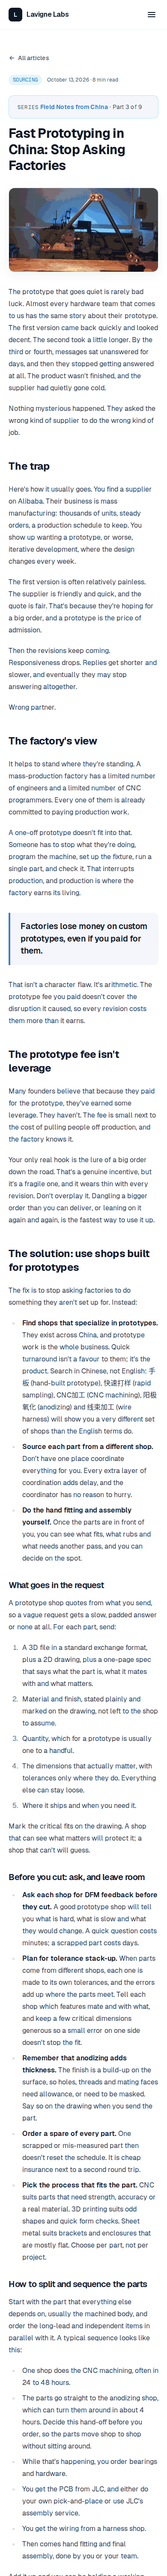
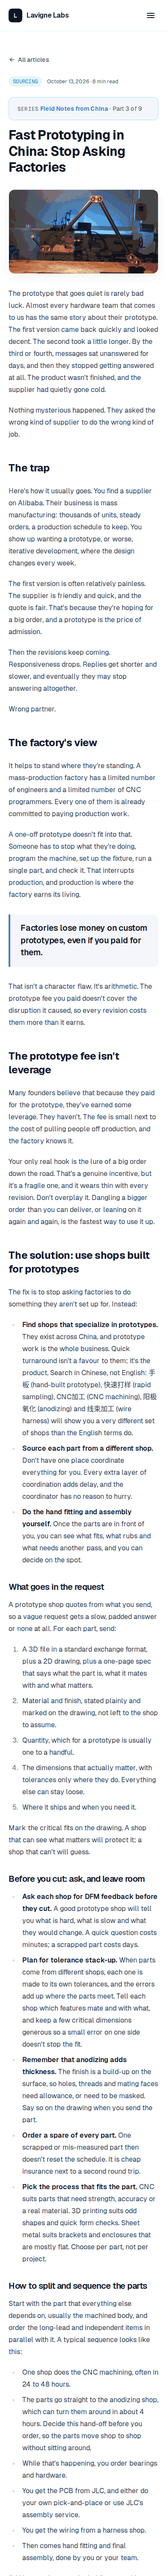
Design polish: shared card tokens, focus rings, tap targets, footer contrast, after shots

Changed region(s): [[0.0308, 0.0, 0.9538, 1.0], [0.0615, 0.5922, 0.0923, 0.6545]]

diff --git a/web/components/Footer.tsx b/web/components/Footer.tsx
@@ -22,13 +22,13 @@ export function Footer() {
 
           {Object.entries(footerLinks).map(([heading, items]) => (
             <div key={heading}>
-              <h3 className="font-mono text-xs uppercase tracking-widest text-white/50">
+              <h3 className="font-mono text-xs uppercase tracking-widest text-white/65">
                 {heading}
               </h3>
-              <ul className="mt-4 space-y-3 text-sm">
+              <ul className="mt-4 space-y-1 text-sm">
                 {items.map((item) => (
                   <li key={item.href}>
-                    <Link href={item.href} className="text-white/75 transition hover:text-white">
+                    <Link href={item.href} className="tap text-white/75 transition hover:text-white">
                       {item.label}
                     </Link>
                   </li>
@@ -38,12 +38,12 @@ export function Footer() {
           ))}
 
           <div>
-            <h3 className="font-mono text-xs uppercase tracking-widest text-white/50">
+            <h3 className="font-mono text-xs uppercase tracking-widest text-white/65">
               Get in touch
             </h3>
-            <ul className="mt-4 space-y-3 text-sm text-white/75">
+            <ul className="mt-4 space-y-2 text-sm text-white/75">
               <li>
-                <a href={mailtoHref} className="transition hover:text-white">
+                <a href={mailtoHref} className="tap transition hover:text-white">
                   {site.email}
                 </a>
               </li>
@@ -53,7 +53,7 @@ export function Footer() {
           </div>
         </div>
 
-        <div className="mt-12 border-t border-white/10 pt-6 text-xs text-white/45">
+        <div className="mt-12 border-t border-white/10 pt-6 text-xs text-white/60">
           © {new Date().getFullYear()} {site.name}. All rights reserved.
         </div>
       </Container>

diff --git a/web/app/articles/page.tsx b/web/app/articles/page.tsx
@@ -35,7 +35,7 @@ export default function ArticlesPage() {
             <Link
               key={s.slug}
               href={`/articles/series/${s.slug}`}
-              className="group mb-8 block rounded-2xl border border-accent/30 bg-mist p-7 transition hover:border-accent"
+              className="group mb-8 block rounded-2xl border border-accent/30 bg-mist p-7 transition hover:border-accent hover:shadow-card"
             >
               <span className="font-mono text-xs uppercase tracking-widest text-accent">Series</span>
               <h2 className="mt-2 text-xl font-semibold tracking-tight group-hover:text-accent">{s.title}</h2>
@@ -50,7 +50,7 @@ export default function ArticlesPage() {
               <Link
                 key={a.slug}
                 href={`/articles/${a.slug}`}
-                className="group flex flex-col overflow-hidden rounded-2xl border border-line bg-white shadow-card transition hover:border-accent/40"
+                className="card group"
               >
                 {a.hero && (
                   // eslint-disable-next-line @next/next/no-img-element
@@ -60,10 +60,10 @@ export default function ArticlesPage() {
                     width={1600}
                     height={900}
                     loading="lazy"
-                    className="aspect-[16/9] w-full border-b border-line object-cover"
+                    className="card-media"
                   />
                 )}
-                <div className="flex flex-1 flex-col p-7">
+                <div className="card-body">
                 <div className="flex items-center gap-3 text-xs">
                   <span className="rounded-full bg-accent/10 px-2.5 py-1 font-mono uppercase tracking-wide text-accent">
                     {a.tag}

diff --git a/web/components/ProjectCard.tsx b/web/components/ProjectCard.tsx
@@ -10,9 +10,9 @@ export function ProjectCard({
   priority?: boolean;
 }) {
   return (
-    <article className="group overflow-hidden rounded-2xl border border-line bg-white shadow-card">
-      <Link href={`/work/${project.slug}/`} className="block" aria-label={project.title}>
-      <div className="relative aspect-[4/3] overflow-hidden bg-mist">
+    <article className="card group">
+      <Link href={`/work/${project.slug}/`} className="flex flex-1 flex-col" aria-label={project.title}>
+      <div className="overflow-hidden">
         <Image
           src={project.image}
           alt={project.title}
@@ -20,17 +20,17 @@ export function ProjectCard({
           height={600}
           priority={priority}
           sizes="(max-width: 640px) 100vw, (max-width: 1024px) 50vw, 33vw"
-          className="h-full w-full object-cover transition duration-500 group-hover:scale-[1.04]"
+          className="card-media transition duration-500 group-hover:scale-[1.03]"
         />
       </div>
-      <div className="p-6">
-        <h3 className="text-lg font-semibold tracking-tight">{project.title}</h3>
+      <div className="card-body">
+        <h3 className="text-lg font-semibold tracking-tight group-hover:text-accent">{project.title}</h3>
         <p className="mt-2 text-sm leading-relaxed text-slate">{project.blurb}</p>
         <div className="mt-4 flex flex-wrap gap-2">
           {project.tags.map((tag) => (
             <span
               key={tag}
-              className="rounded-full bg-mist px-2.5 py-1 font-mono text-[11px] uppercase tracking-wide text-slate"
+              className="rounded-full bg-mist px-2.5 py-1 font-mono text-xs uppercase tracking-wide text-slate"
             >
               {tag}
             </span>

diff --git a/web/components/Header.tsx b/web/components/Header.tsx
@@ -22,12 +22,12 @@ export function Header() {
           <span className="text-ink">{site.name}</span>
         </Link>
 
-        <nav className="hidden items-center gap-8 md:flex">
+        <nav className="hidden items-center gap-6 md:flex">
           {nav.map((item) => (
             <Link
               key={item.href}
               href={item.href}
-              className="text-sm font-medium text-slate transition hover:text-ink"
+              className="tap text-sm font-medium text-slate transition hover:text-ink"
             >
               {item.label}
             </Link>
@@ -39,7 +39,7 @@ export function Header() {
 
         <button
           type="button"
-          className="md:hidden -mr-1 inline-flex h-10 w-10 items-center justify-center rounded-lg text-ink"
+          className="md:hidden -mr-1 inline-flex h-11 w-11 items-center justify-center rounded-lg text-ink"
           aria-label="Toggle menu"
           aria-expanded={open}
           onClick={() => setOpen((v) => !v)}
@@ -61,7 +61,7 @@ export function Header() {
               <Link
                 key={item.href}
                 href={item.href}
-                className="rounded-lg px-2 py-3 text-base font-medium text-ink hover:bg-mist"
+                className="rounded-lg px-3 py-3.5 text-base font-medium text-ink hover:bg-mist"
                 onClick={() => setOpen(false)}
               >
                 {item.label}

diff --git a/web/app/globals.css b/web/app/globals.css
@@ -193,3 +193,54 @@ body {
 .article-body blockquote.callout-tip > p:first-child {
   color: var(--color-accent-600);
 }
+
+/* Shared design tokens: focus, cards, tap targets */
+:focus-visible {
+  outline: 2px solid var(--color-accent);
+  outline-offset: 2px;
+  border-radius: 0.25rem;
+}
+.card {
+  display: flex;
+  flex-direction: column;
+  overflow: hidden;
+  border: 1px solid var(--color-line);
+  border-radius: 1rem;
+  background: #fff;
+  box-shadow: var(--shadow-card);
+  transition: border-color 0.2s, box-shadow 0.2s, transform 0.2s;
+}
+.card:hover,
+.card:focus-within {
+  border-color: rgba(37, 99, 235, 0.45);
+  box-shadow: 0 2px 4px rgba(11, 18, 32, 0.06), 0 14px 32px rgba(11, 18, 32, 0.1);
+}
+@media (prefers-reduced-motion: no-preference) {
+  .card:hover {
+    transform: translateY(-2px);
+  }
+}
+.card-media {
+  display: block;
+  width: 100%;
+  aspect-ratio: 3 / 2;
+  object-fit: cover;
+  background: var(--color-mist);
+  border-bottom: 1px solid var(--color-line);
+}
+.card-body {
+  display: flex;
+  flex: 1;
+  flex-direction: column;
+  padding: 1.5rem;
+}
+.tap {
+  display: inline-flex;
+  align-items: center;
+  min-height: 2.75rem;
+}
+@media (min-width: 48rem) {
+  .tap {
+    min-height: 2.25rem;
+  }
+}

diff --git a/web/components/ui.tsx b/web/components/ui.tsx
@@ -36,7 +36,7 @@ export function Button({
 }: ButtonProps) {
   return (
     <Link
-      className={`inline-flex items-center justify-center gap-2 rounded-full px-6 py-3 text-sm font-semibold transition focus-visible:outline-none focus-visible:ring-2 focus-visible:ring-offset-2 ${variants[variant]} ${className}`}
+      className={`inline-flex items-center justify-center gap-2 rounded-full min-h-11 px-6 py-3 text-sm font-semibold transition focus-visible:outline-none focus-visible:ring-2 focus-visible:ring-offset-2 ${variants[variant]} ${className}`}
       {...props}
     >
       {children}

diff --git a/web/components/HowWeWork.tsx b/web/components/HowWeWork.tsx
@@ -21,7 +21,7 @@ export function HowWeWork() {
             >
               <div className="flex items-center gap-3">
                 <h3 className="text-xl font-semibold tracking-tight">{model.name}</h3>
-                <span className="rounded-full bg-accent/10 px-2.5 py-1 font-mono text-[11px] uppercase tracking-wide text-accent">
+                <span className="rounded-full bg-accent/10 px-2.5 py-1 font-mono text-xs uppercase tracking-wide text-accent">
                   {model.tag}
                 </span>
               </div>

diff --git a/web/app/play/page.tsx b/web/app/play/page.tsx
@@ -65,7 +65,7 @@ export default function PlayPage() {
                   />
                 </div>
                 <div className="p-7">
-                  <span className="font-mono text-[11px] uppercase tracking-wide text-accent">
+                  <span className="font-mono text-xs uppercase tracking-wide text-accent">
                     {game.tag}
                   </span>
                   <h2 className="mt-2 text-xl font-semibold tracking-tight group-hover:text-accent">

diff --git a/web/app/work/[slug]/page.tsx b/web/app/work/[slug]/page.tsx
@@ -96,7 +96,7 @@ export default async function ProjectPage({
               {project.tags.map((tag) => (
                 <span
                   key={tag}
-                  className="rounded-full bg-mist px-2.5 py-1 font-mono text-[11px] uppercase tracking-wide text-slate"
+                  className="rounded-full bg-mist px-2.5 py-1 font-mono text-xs uppercase tracking-wide text-slate"
                 >
                   {tag}
                 </span>

diff --git a/web/app/tools/page.tsx b/web/app/tools/page.tsx
@@ -14,7 +14,7 @@ function ToolCard({ tool }: { tool: Tool }) {
   const body = (
     <>
       <div>
-        <span className="font-mono text-[11px] uppercase tracking-wide text-accent">
+        <span className="font-mono text-xs uppercase tracking-wide text-accent">
           {tool.kind}
         </span>
         <h3 className="mt-2 text-xl font-semibold tracking-tight group-hover:text-accent">

diff --git a/docs/design-review/NOTES.md b/docs/design-review/NOTES.md
@@ -1,0 +1,32 @@
+# Design pass notes (1440px / 390px, screenshots in `after/`)
+
+Shot with `web/scripts/shoot-all.sh` (headless Chromium over CDP, no repo dependency). Shot set now also covers /faq/, /contact/, /tools/ and /articles/.
+
+## What was wrong and what changed
+
+**Shared tokens (app/globals.css)**
+- Work and article index cards were built differently: 4:3 vs 16:9 image crops, p-6 vs p-7 padding, different hover behaviour, no keyboard focus state. Added `.card`, `.card-media` (3:2 crop, same radius and shadow) and `.card-body`, with a hover and focus-within state (border, deeper shadow, 2px lift unless reduced motion).
+- No consistent focus ring. Added a global `:focus-visible` 2px accent outline.
+- Added a `.tap` helper: 44px minimum height on mobile, 36px on desktop.
+
+**/work/ and home featured work**: `ProjectCard` uses the shared card, so images are equal 3:2 crops, the title turns accent on hover, and tags went from 11px to 12px.
+
+**/articles/**: article cards use the same card tokens and image crop. The series banner gets a hover shadow.
+
+**Header**: mobile menu button is 44px (was 40px). Mobile menu items have more padding. Desktop nav links got a taller hit area.
+
+**Buttons (`ui.tsx`)**: `min-h-11`, so every CTA meets the 44px target.
+
+**Footer**: low-contrast text raised (headings white/50 to white/65, copyright white/45 to white/60). Footer links are now proper tap targets on mobile.
+
+**Work detail, /tools/, /play, HowWeWork**: 11px mono labels and tags raised to 12px.
+
+**FAQ, Contact, Tools, Charts, article pages**: reviewed. The hierarchy, line lengths and spacing rhythm were already consistent, so I changed nothing page-specific. They pick up the global focus ring, button size and footer changes. The article figures and the work viewer were left untouched.
+
+## Seen but left alone
+- Text-only article cards (no hero image) stretch to the height of their row neighbour, which leaves white space. Fixing it means adding images, which is a content change.
+- Several article hero images are repeats (e.g. the hex puck photo), and some are heavily palette-quantised in the screenshots only (the screenshot script shrinks them). Replacing images is content work.
+- The home page is long on mobile. Trimming it would change copy and structure.
+- /tools/ cards have no hover lift like `.card`. They could adopt it later.
+- The static calculators in public/tools are out of scope.
+- Brand colours are unchanged; nothing was clearly broken.
